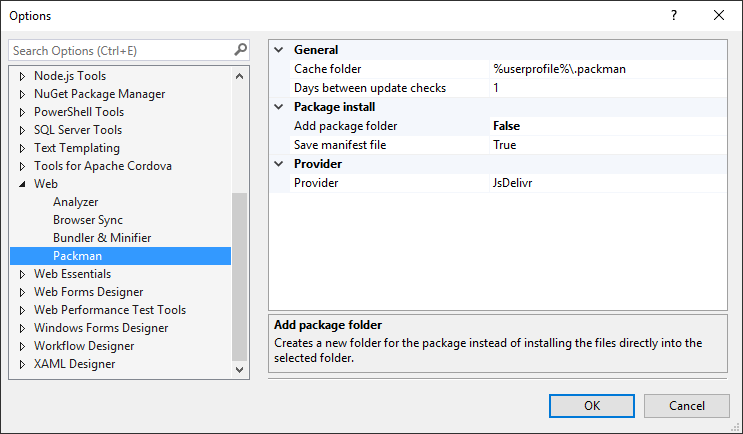
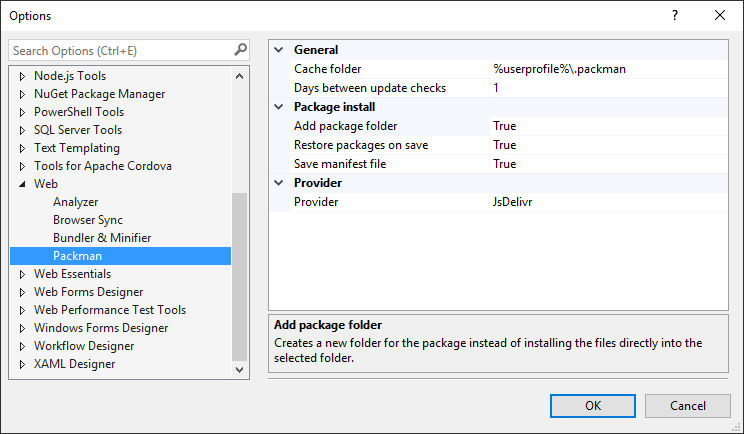
Added restore on save + options to disable it

diff --git a/src/PackmanVsix/JSON/JsonCreationListener.cs b/src/PackmanVsix/JSON/JsonCreationListener.cs
@@ -1,0 +1,61 @@
+using System;
+using System.ComponentModel.Composition;
+using System.IO;
+using Microsoft.VisualStudio.Editor;
+using Microsoft.VisualStudio.Text;
+using Microsoft.VisualStudio.Text.Editor;
+using Microsoft.VisualStudio.TextManager.Interop;
+using Microsoft.VisualStudio.Utilities;
+
+namespace PackmanVsix.JSON
+{
+    [Export(typeof(IVsTextViewCreationListener))]
+    [ContentType("json")]
+    [TextViewRole(PredefinedTextViewRoles.Document)]
+    class JsonCreationListener : IVsTextViewCreationListener
+    {
+        [Import]
+        public IVsEditorAdaptersFactoryService EditorAdaptersFactoryService { get; set; }
+
+        [Import]
+        public ITextDocumentFactoryService TextDocumentFactoryService { get; set; }
+
+        ITextDocument _document;
+
+        public void VsTextViewCreated(IVsTextView textViewAdapter)
+        {
+            var textView = EditorAdaptersFactoryService.GetWpfTextView(textViewAdapter);
+
+            if (TextDocumentFactoryService.TryGetTextDocument(textView.TextDataModel.DocumentBuffer, out _document))
+            {
+                string fileName = Path.GetFileName(_document.FilePath);
+
+                if (fileName.Equals(VSPackage.ManifestFileName, StringComparison.OrdinalIgnoreCase))
+                {
+                    _document.FileActionOccurred += DocumentSaved;
+                }
+            }
+
+            textView.Closed += TextviewClosed;
+        }
+
+        void TextviewClosed(object sender, EventArgs e)
+        {
+            IWpfTextView view = (IWpfTextView)sender;
+
+            if (view != null)
+                view.Closed -= TextviewClosed;
+
+            if (_document != null)
+                _document.FileActionOccurred -= DocumentSaved;
+        }
+
+        async void DocumentSaved(object sender, TextDocumentFileActionEventArgs e)
+        {
+            if (e.FileActionType == FileActionTypes.ContentSavedToDisk && VSPackage.Options.RestoreOnSave)
+            {
+                await PackageService.RestorePackagesAsync(e.FilePath);
+            }
+        }
+    }
+}

diff --git a/src/PackmanVsix/PackageService.cs b/src/PackmanVsix/PackageService.cs
@@ -1,6 +1,8 @@
 using System;
 using System.IO;
 using System.Linq;
+using System.Threading.Tasks;
+using Microsoft.JSON.Core.Parser;
 using Packman;
 
 namespace PackmanVsix
@@ -21,6 +23,45 @@ namespace PackmanVsix
             InstallablePackage.Downloaded += Downloaded;
 
             Manifest.Saving += Saving;
+        }
+
+        public static async Task RestorePackagesAsync(string manifestFile)
+        {
+            try
+            {
+                if (await IsValidJson(manifestFile))
+                {
+                    var manifest = await Manifest.FromFileOrNewAsync(manifestFile);
+                    await VSPackage.Manager.InstallAll(manifest);
+
+                    Telemetry.TrackEvent("Packages restored");
+                }
+                else
+                {
+                    VSPackage.DTE.StatusBar.Text = Properties.Resources.ManifestInvalidJson;
+                }
+            }
+            catch (PackageNotFoundException ex)
+            {
+                VSPackage.DTE.StatusBar.Text = string.Format(Properties.Resources.ExceptionLoadingPackages, ex.Name, ex.Version);
+                Logger.Log(ex);
+            }
+            catch (Exception ex)
+            {
+                VSPackage.DTE.StatusBar.Text = Properties.Resources.ErrorRestoringPackages;
+                Logger.Log(ex);
+            }
+        }
+
+        static async Task<bool> IsValidJson(string file)
+        {
+            using (StreamReader reader = new StreamReader(file))
+            {
+                string json = await reader.ReadToEndAsync();
+                var doc = JSONParser.Parse(json);
+
+                return doc.IsValid;
+            }
         }
 
         static void Downloaded(object sender, InstallEventArgs e)

diff --git a/src/PackmanVsix/Commands/RestorePackagesCommand.cs b/src/PackmanVsix/Commands/RestorePackagesCommand.cs
@@ -55,22 +55,7 @@ namespace PackmanVsix
             if (item == null)
                 return;
 
-            try
-            {
-                var manifest = await Manifest.FromFileOrNewAsync(item.GetFullPath());
-                await VSPackage.Manager.InstallAll(manifest);
-
-                Telemetry.TrackEvent("Packages restored");
-            }
-            catch (PackageNotFoundException ex)
-            {
-                VSPackage.DTE.StatusBar.Text = string.Format(Properties.Resources.ExceptionLoadingPackages, ex.Name, ex.Version);
-            }
-            catch (Exception ex)
-            {
-                VSPackage.DTE.StatusBar.Text = Properties.Resources.ErrorRestoringPackages;
-                Logger.Log(ex);
-            }
+            await PackageService.RestorePackagesAsync(item.GetFullPath());
         }
     }
 }

diff --git a/src/PackmanVsix/Options.cs b/src/PackmanVsix/Options.cs
@@ -12,6 +12,12 @@ namespace PackmanVsix
         [DefaultValue(true)]
         public bool SaveManifestFile { get; set; } = true;
 
+        [DisplayName("Restore packages on save")]
+        [Category("Package install")]
+        [Description("Automatically restore packages when saving package.json.")]
+        [DefaultValue(true)]
+        public bool RestoreOnSave { get; set; } = true;
+
         [DisplayName("Add package folder")]
         [Category("Package install")]
         [Description("Creates a new folder for the package instead of installing the files directly into the selected folder.")]

diff --git a/src/PackmanVsix/Properties/Resources.Designer.cs b/src/PackmanVsix/Properties/Resources.Designer.cs
@@ -97,6 +97,15 @@ namespace PackmanVsix.Properties {
         }
         
         /// <summary>
+        ///   Looks up a localized string similar to Packman.json contains syntax errors.
+        /// </summary>
+        internal static string ManifestInvalidJson {
+            get {
+                return ResourceManager.GetString("ManifestInvalidJson", resourceCulture);
+            }
+        }
+        
+        /// <summary>
         ///   Looks up a localized string similar to Packages could not be loaded.
         /// </summary>
         internal static string PackagesCouldNotBeLoaded {

diff --git a/CHANGELOG.md b/CHANGELOG.md
@@ -2,6 +2,8 @@
 
 - [x] Install packages
 - [x] Restore packages
+  - [x] Context menu button in Solution Explorer
+  - [x] When saving `packman.json`
 - [ ] Update package
   - [ ] Light bulb in `packman.json`
   - [ ] Visual indication that packages has update
@@ -26,6 +28,7 @@
 - [x] Offline support (works from cache)
 - [x] Options dialog
 - [ ] Visual indication that folder/file is from package
+- [ ] Cross-platform command line interface
 
 Features that have a checkmark are complete and available for
 download in the
